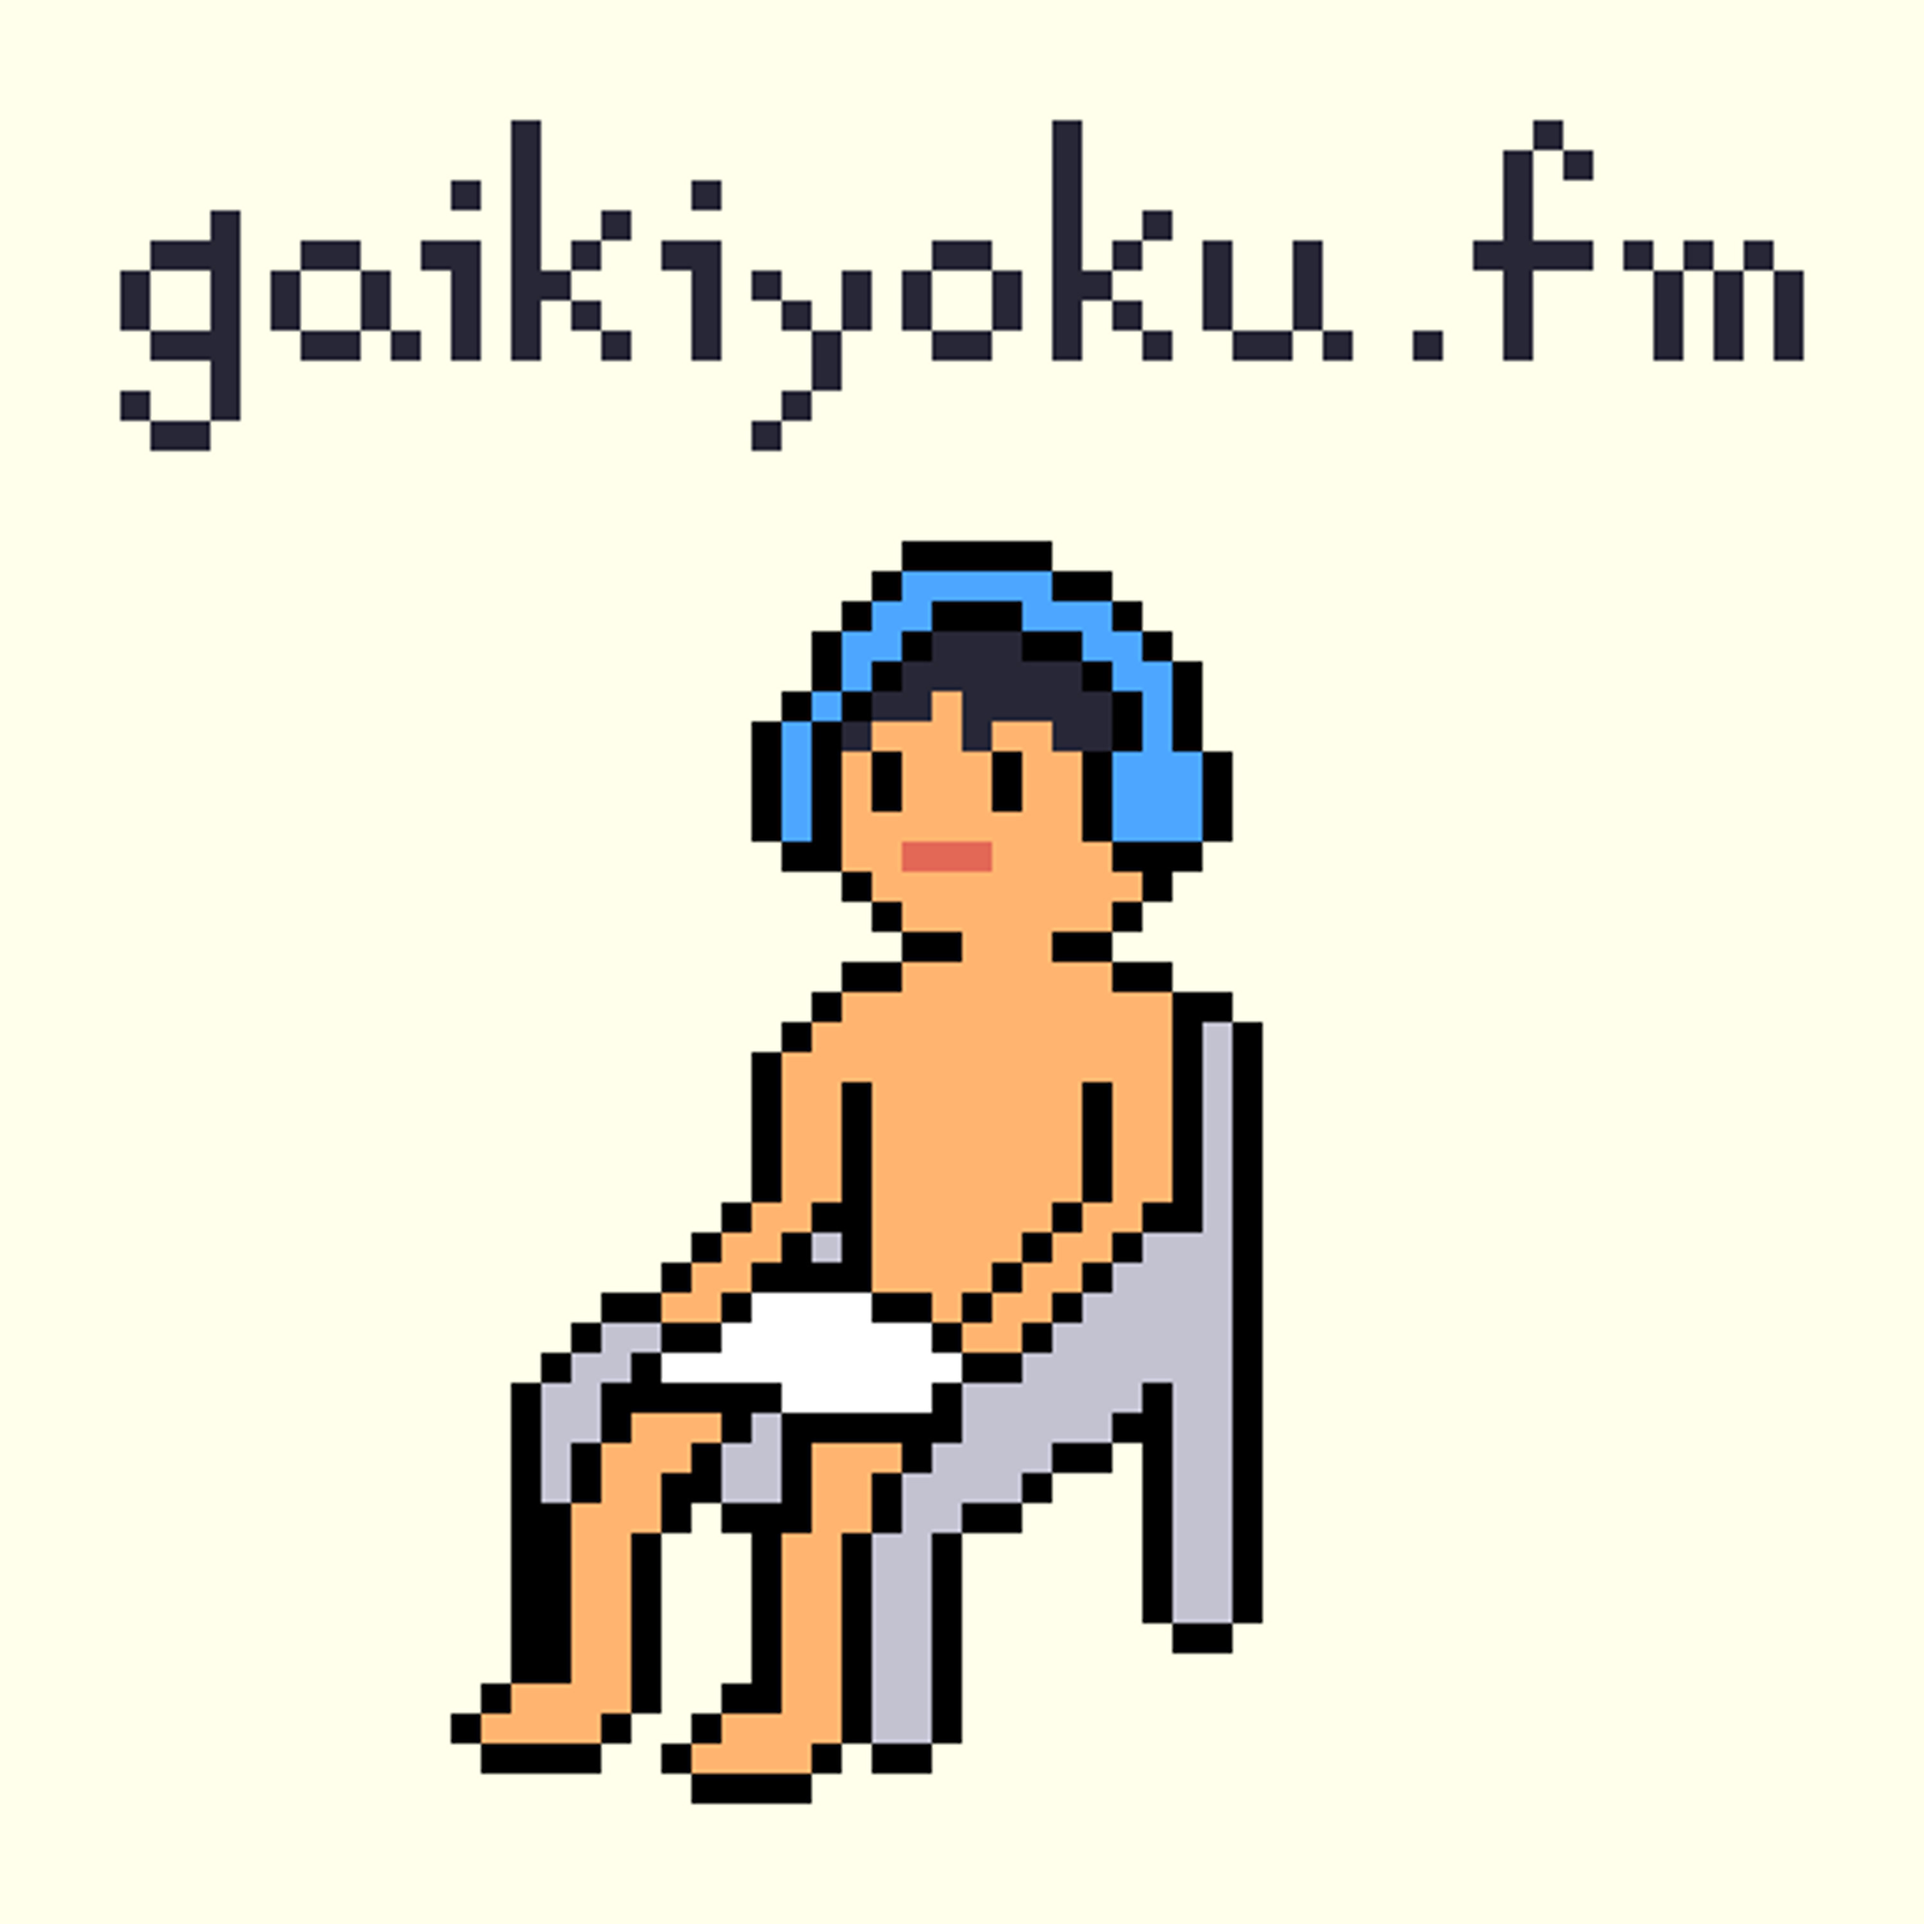
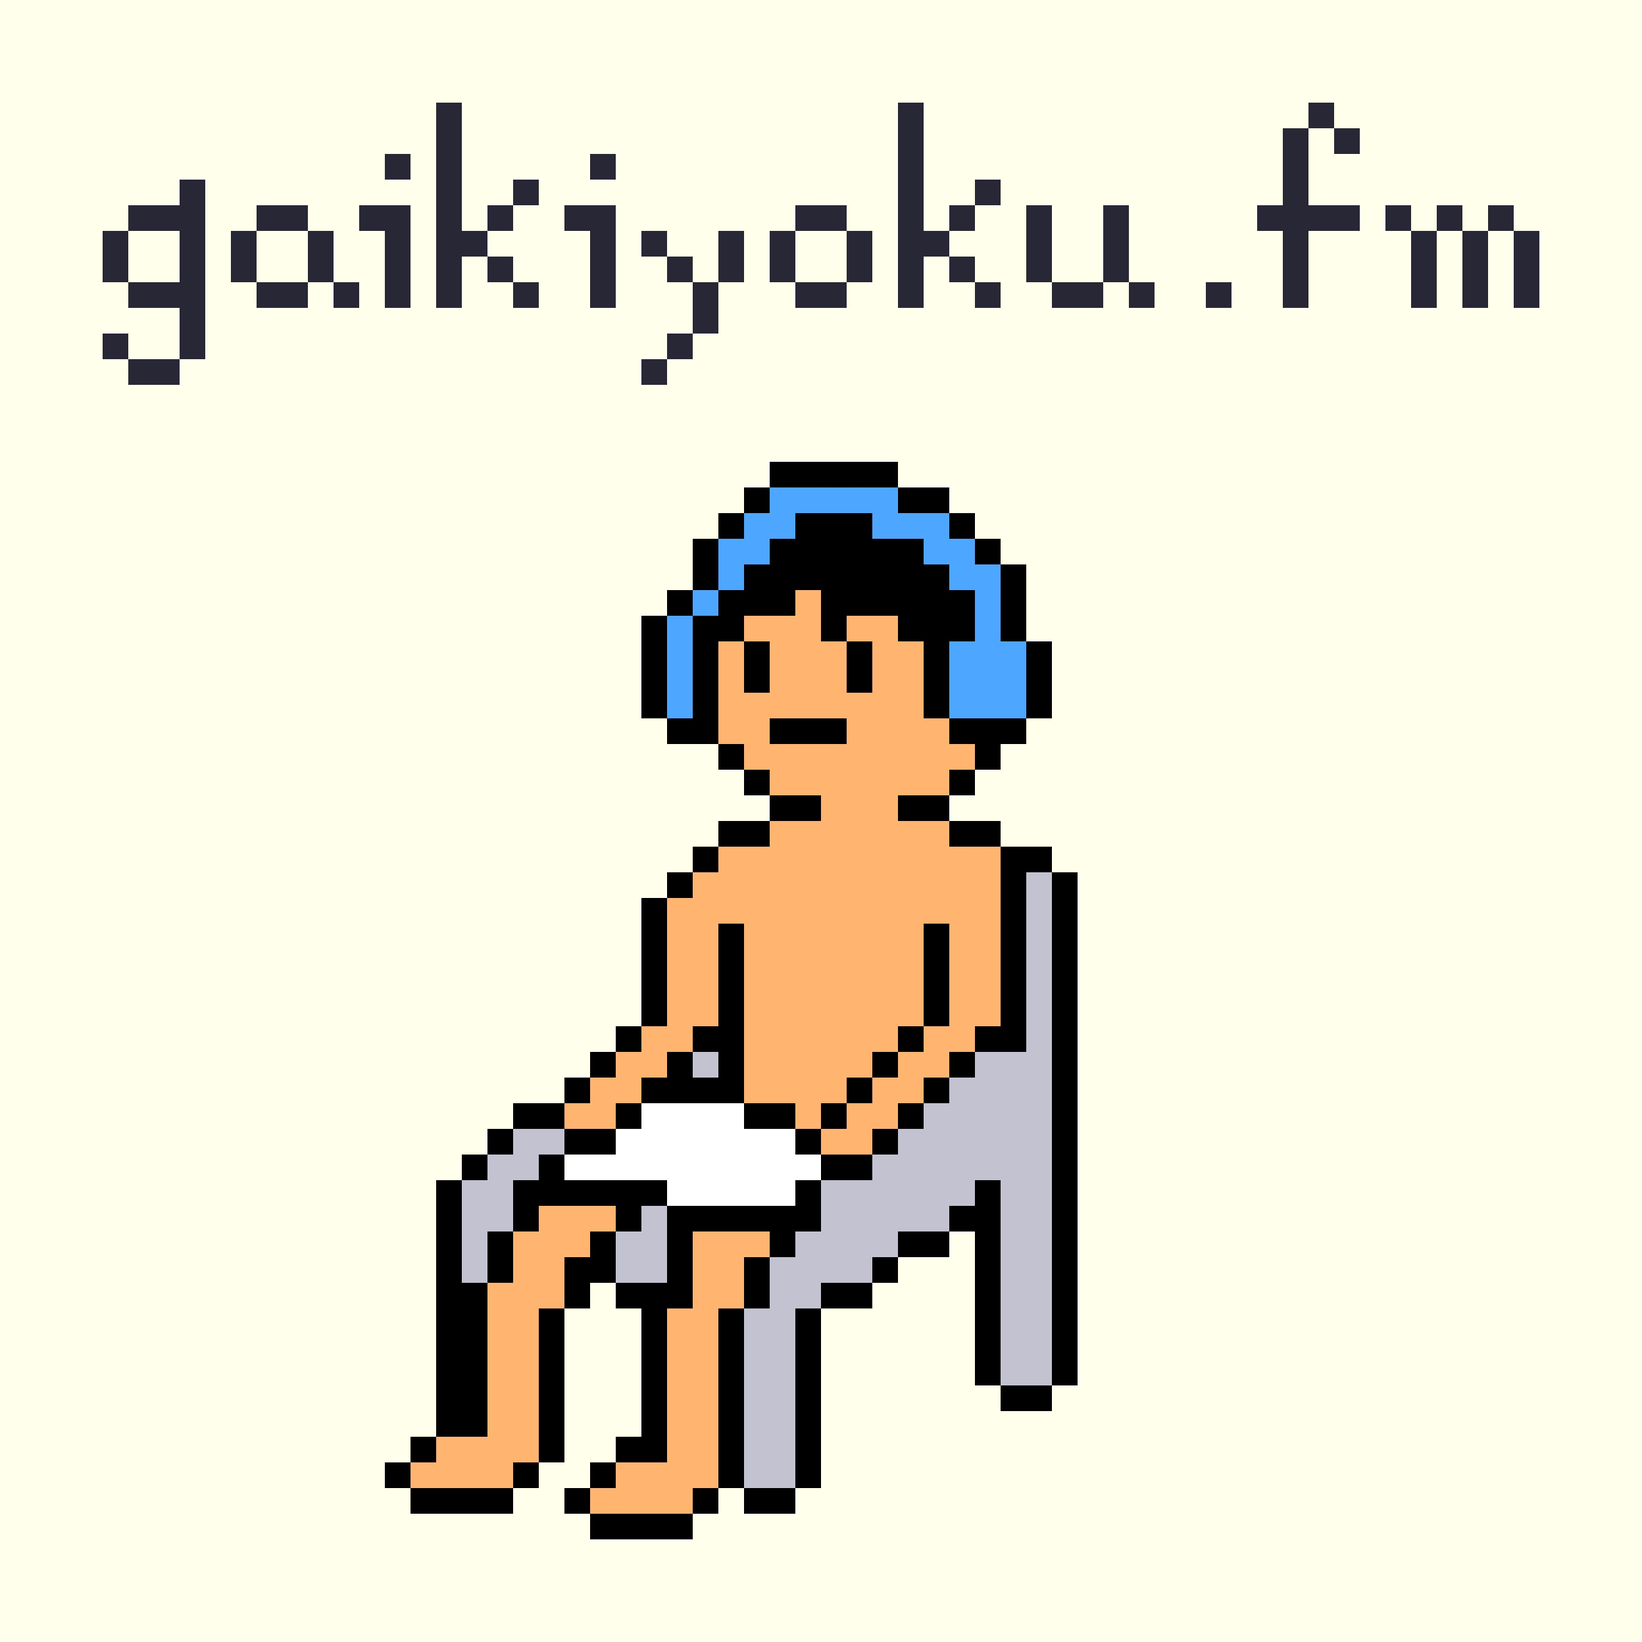
chore: regenerate artwork with nearest neighbor scaling, add artwork-256.jpg

diff --git a/_includes/head.html b/_includes/head.html
@@ -12,11 +12,11 @@
   <meta name="description" content="{% if page.description %}{{ page.description }}{% else %}{{ site.description }}{% endif %}" />
   <meta name="twitter:card" content="summary" />
   <meta name="twitter:description" content="{% if page.description %}{{ page.description }}{% else %}{{ site.description }}{% endif %}" />
-  <meta name="twitter:image" content="{{ site.github.url }}/images/artwork-240.jpg" />
+  <meta name="twitter:image" content="{{ site.github.url }}/images/artwork-256.jpg" />
   <meta name="twitter:title" content="{% if page.title %}{{ page.title }} | {% endif %}{{ site.title }}" />
   <meta name="apple-itunes-app" content="app-id=1598934840">
   <meta property="og:description" content="{% if page.description %}{{ page.description }}{% else %}{{ site.description }}{% endif %}" />
-  <meta property="og:image" content="{{ site.github.url }}/images/artwork-240.jpg" />
+  <meta property="og:image" content="{{ site.github.url }}/images/artwork-256.jpg" />
   <meta property="og:site_name" content="{{ site.title }}" />
   <meta property="og:type" content="blog" />
   <meta property="og:url" content="{{ site.github.url }}{{ page.url }}" />
